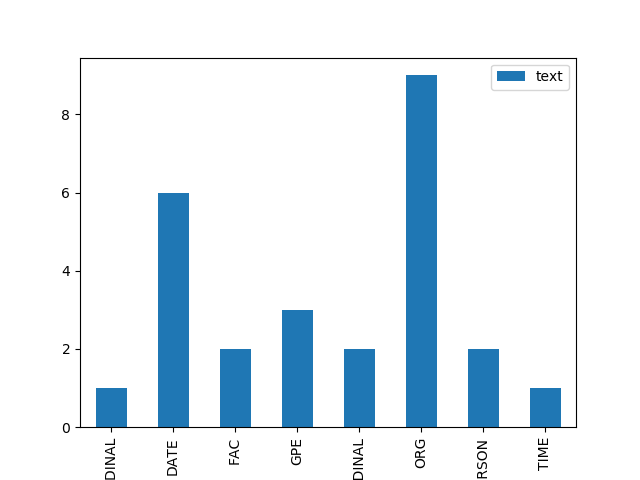
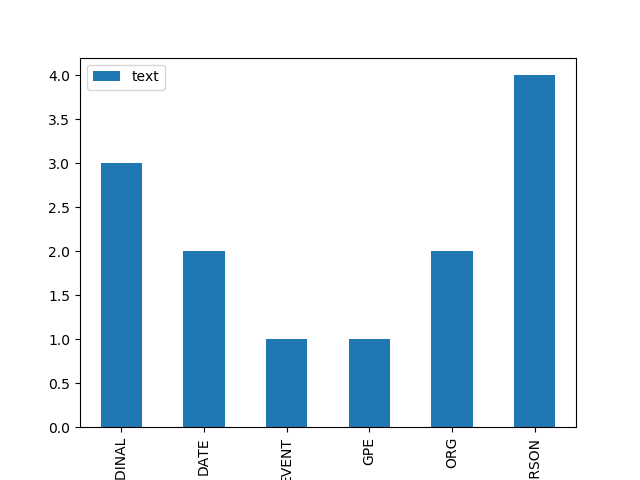
updates to bot

diff --git a/app.py b/app.py
@@ -1,20 +1,17 @@
 import os
 import pandas as pd
-import spacy
 import tweepy
 import time
+import spacy
 import en_core_web_sm
 import matplotlib
-matplotlib.use('Agg')
+
+matplotlib.use("Agg")
 
 
-# For testing locally
-# from config import (consumer_key,
-#                     consumer_secret,
-#                     access_token,
-#                     access_token_secret)
+# Uncomment the following to test the script locally:
+# from config import consumer_key, consumer_secret, access_token, access_token_secret
 
-# For deploying to Heroku
 # Get config variable from environment variables
 consumer_key = os.environ.get("consumer_key")
 consumer_secret = os.environ.get("consumer_secret")
@@ -32,43 +29,64 @@ nlp = en_core_web_sm.load()
 
 def update_twitter():
 
-    # Create dictionary to hold text and label entities# Creat
-    tweet_dict = {
-        "text": [],
-        "label": [],
-    }
+    # Create dictionary to hold text and label entities
+    tweet_dict = {"text": [], "label": []}
 
-    # Get tweets from a users timeline
-    user_tweets = api.user_timeline("EpcotCentre")
+    mentions = api.search(q="@TraderData Analyze:")
+    print(mentions)
+    words = []
+    try:
+        command = mentions["statuses"][0]["text"]
+        words = command.split("Analyze:")
+        target_account = words[1].strip()
+        user_tweets = api.user_timeline(target_account, page=1)
 
-    # Loop through tweets
-    for tweet in user_tweets:
+        # Loop through tweets
+        for tweet in user_tweets:
 
-        # Use nlp on each tweet
-        doc = nlp(tweet["text"])
+            # Use nlp on each tweet
+            doc = nlp(tweet["text"])
 
-        # Check if nlp returns no entities
-        if not doc.ents:
-            print("No entities to visualize")
-            print("----------------------------")
+            # Check if nlp returns no entities
+            if not doc.ents:
+                print("No entities to visualize")
+                print("----------------------------")
+            else:
+                # Print the entities for each doc
+                for ent in doc.ents:
+                    # Store entities in dictionary
+                    tweet_dict["text"].append(ent.text)
+                    tweet_dict["label"].append(ent.label_)
+        # Convert dictionary to DataFrame
+        tweet_df = pd.DataFrame(tweet_dict)
+        tweet_df.head()
+
+        # Group by labels# Group
+        label_frequency = tweet_df.groupby(["label"]).count()
+
+        # Get bar graph as a figure and tweet chart
+        bar = label_frequency.plot.bar()
+        fig = bar.get_figure()
+        fig.savefig("box.png")
+        api.update_with_media(
+            "box.png", "Break down of tweet labels"
+        )
+    except Exception:
+        raise
+
+    # Grab Self Tweets
+    tweets = api.user_timeline()
+
+    # Confirm the target account has never been tweeted before
+    repeat = False
+
+    for tweet in tweets:
+        if target_account in tweet["text"]:
+            repeat = True
+            print("Sorry. Repeat detected!")
+
         else:
-            # Print the entities for each doc
-            for ent in doc.ents:
-                # Store entities in dictionary
-                tweet_dict["text"].append(ent.text)
-                tweet_dict["label"].append(ent.label_)
-    # Convert dictionary to DataFrame
-    tweet_df = pd.DataFrame(tweet_dict)
-    tweet_df.head()
-
-    # Group by labels# Group
-    label_frequency = tweet_df.groupby(['label']).count()
-
-    # Get bar graph as a figure and tweet chart
-    bar = label_frequency.plot.bar()
-    fig = bar.get_figure()
-    fig.savefig('box.png')
-    api.update_with_media("box.png", "Break down of tweet labels")
+            continue
 
 
 # Have the Twitter bot update once a day for a week
@@ -80,7 +98,7 @@ while days < 7:
     update_twitter()
 
     # Wait a day
-    time.sleep(86400)
+    time.sleep(300)
 
     # Update day counter
     days += 1
